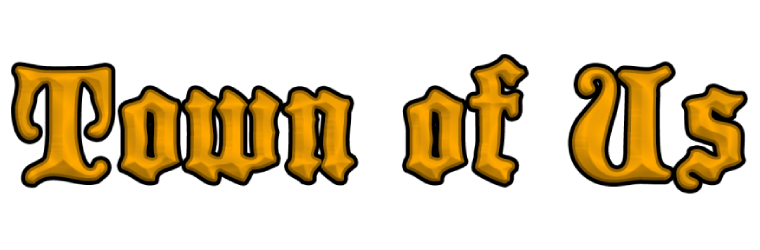
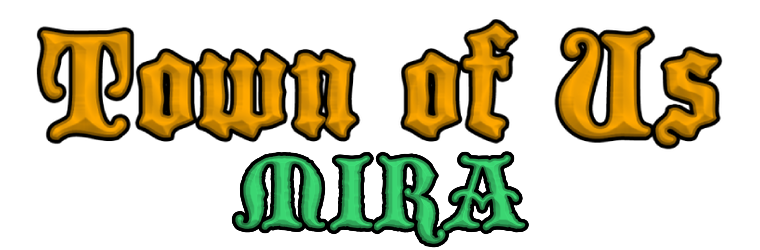
Update details

diff --git a/TouMiraLegacy/Assets/LegacyAssets.cs b/TouMiraLegacy/Assets/LegacyAssets.cs
@@ -9,7 +9,7 @@ public static class LegacyAssets
     private const string ShortPath = "TouMiraLegacy.Resources";
 
     public static readonly AssetBundle MainBundle = AssetBundleManager.Load("legacy-assets");
-    public static LoadableAsset<Sprite> Banner { get; } = new LoadableResourceAsset($"{ShortPath}.Banner.png", 36f);
+    public static LoadableAsset<Sprite> Banner { get; } = new LoadableResourceAsset($"{ShortPath}.Banner.png", 34f);
     public static LoadableAsset<Sprite> BroadcastSprite { get; } =
         new LoadableBundleAsset<Sprite>("Detect", MainBundle);
 

diff --git a/README.md b/README.md
@@ -1,2 +1,39 @@
-# TouMiraLegacy
-An extension mod for TOU Mira that brings back the old TOUR and pre-2021 Among Us feeling.
+
+<div align="center">
+  <img src="./TouMiraLegacy/Resources/Banner.png" alt="Town of Us Mira"/>
+  <p>Town Of Us Mira</p>
+  <a href="https://github.com/AU-Avengers/TOU-Mira/releases/"> <img alt="Latest Release" src="https://badgen.net/github/release/AU-Avengers/TouMiraLegacy?icon=github"></a>
+  <a href="https://github.com/AU-Avengers/TOU-Mira/releases"> <img alt="GitHub Downloads" src="https://img.shields.io/github/downloads/AU-Avengers/TouMiraLegacy/total"></a>
+</div>
+<br/>
+
+An [Among Us](https://store.steampowered.com/app/945360/Among_Us) extension mod for [TOU Mira](https://github.com/AU-Avengers/TOU-Mira) that brings back the old Town of Us and pre-2021 Among Us feeling.
+
+-----------------------
+
+# Visual Changes
+
+- Old button artwork for Vanilla (excluding its non-basic roles, haunt, and wardrobe button)
+- Old button artwork for *most* TOU Roles (Excluding a handful of new roles)
+- Localized vanilla artwork for Vanilla (soon)
+
+-----------------------
+
+# Recommended TOU Mira & MiraAPI Settings
+
+Use the following settings to get the best experience with this mod, as it will make the game feel more like pre-2021 Among Us.
+<div align="center">
+  <img src="./Images/ApiSettings.png" alt="MiraAPI Local Settings"/>
+  <p>Found under the MiraAPI Local Settings</p>
+  <img src="./Images/TouSettings.png" alt="TOU Mira Local Settings"/>
+  <p>Found under the TOU Mira Local Settings</p>
+</div>
+
+-----------------------
+
+# License
+This software is distributed under the GNU GPLv3 License. BepInEx is distributed under the LGPL-2.1 License.
+
+# Copyright
+<p align="center">This mod is not affiliated with Among Us or Innersloth LLC, and the content contained therein is not endorsed or otherwise sponsored by Innersloth LLC. Portions of the materials contained herein are property of Innersloth LLC.</p>
+<p align="center">© Innersloth LLC.</p>
